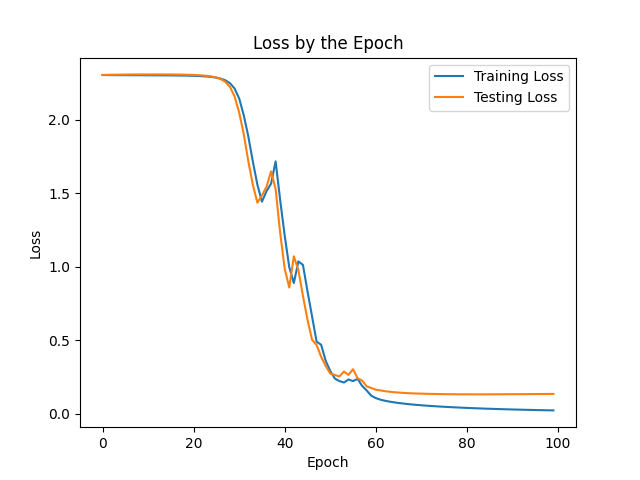
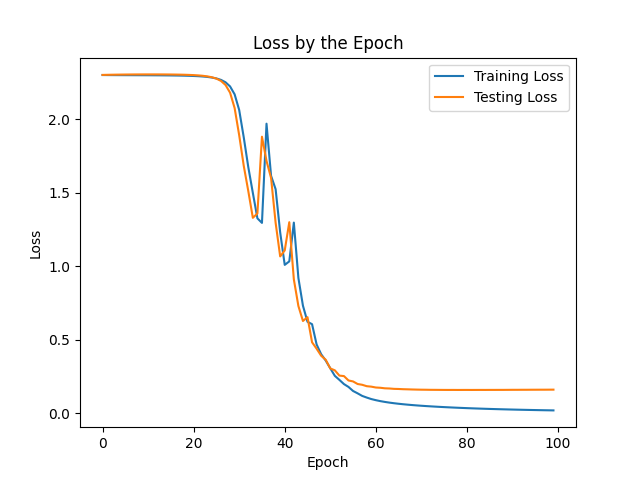
results for neural network

Changed region(s): [[0.3125, 0.1562, 0.875, 0.875], [0.0625, 0.6875, 0.125, 0.7188]]

diff --git a/main.py b/main.py
@@ -6,9 +6,11 @@ import json
 from pathlib import Path
 
 # Hyperparameters
-LEARNING_RATE = 0.001
-REG_STRENGTH = 0.0001
-EPOCHS = 100
+HYPERPARAMS = {
+    'digits': {'lr': 0.001, 'reg': 0.0001, 'epochs': 100},
+    'credit': {'lr': 0.001, 'reg': 0.01, 'epochs': 100}, 
+    'mushroom': {'lr': 0.0001, 'reg': 0.0001, 'epochs': 100} 
+}
 
 DATASETS = ['digits', 'credit', 'mushroom']
 
@@ -21,6 +23,10 @@ CONFIGURATIONS = {
 def main():
     accuracy_report = {}
     for dataset_name in DATASETS:
+        # The dataset determines the hyperparameters
+        REG_STRENGTH = HYPERPARAMS[dataset_name]['reg']
+        LEARNING_RATE = HYPERPARAMS[dataset_name]['lr']
+        EPOCHS = HYPERPARAMS[dataset_name]['epochs']
         print(f"--- Processing Dataset: {dataset_name} ---")
         accuracy_report[dataset_name] = {}
         X_train, y_train, X_test, y_test = load_dataset(dataset_name=dataset_name)
